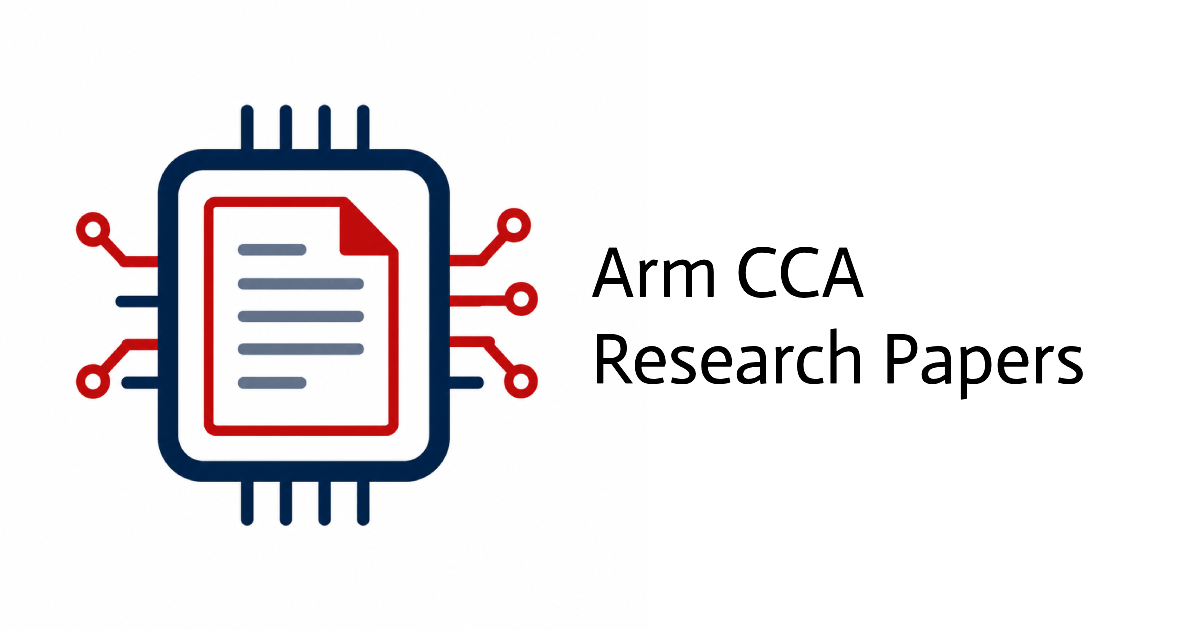
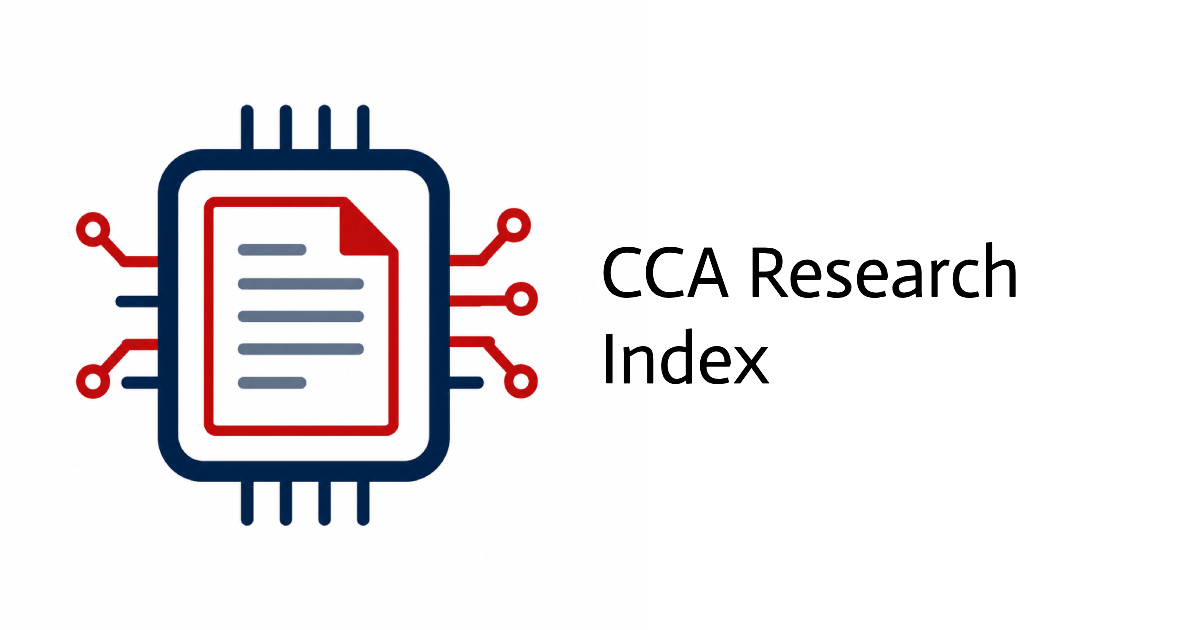
rename site

Changed region(s): [[0.4933, 0.5127, 0.925, 0.6333], [0.4933, 0.3921, 0.8633, 0.4825]]

diff --git a/README.md b/README.md
@@ -1,4 +1,4 @@
-# Arm CCA Research Papers
+# CCA Research Index
 
 > A community-maintained overview of academic research on Arm Confidential
 > Compute Architecture.